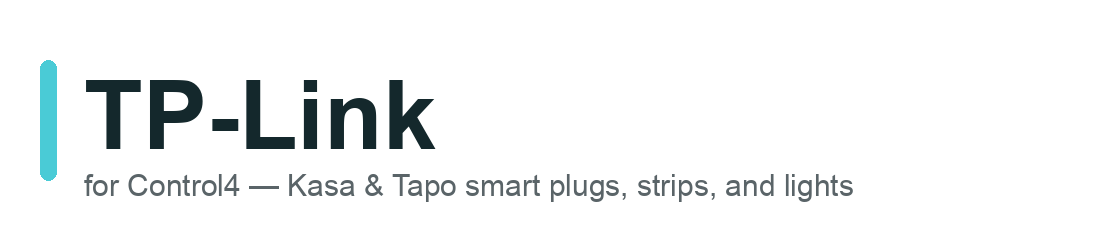
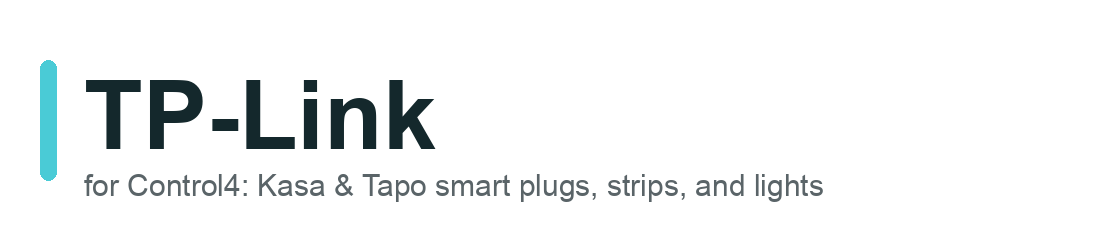
Remove em dashes and marketing tone from docs and user-facing strings

Changed region(s): [[0.2164, 0.7292, 0.7727, 0.8458]]

diff --git a/drivers/tplink_outlet/www/documentation/index.md b/drivers/tplink_outlet/www/documentation/index.md
@@ -30,16 +30,15 @@ The TP-Link Outlet driver provides local, cloud-free control of Kasa smart power
 strips (HS300/KP303/KP400) and smart plugs directly from Control4, on **both**
 generations of TP-Link's local protocol.
 
-Unlike older Kasa drivers that rely on TP-Link's legacy plaintext protocol on
-port 9999, this driver speaks **KLAP** — the encrypted local protocol TP-Link
-rolled out in firmware updates starting late 2024, which **disables the legacy
-protocol entirely**. If your Kasa device stopped responding to an existing
-Control4 driver after a firmware update, this driver is the fix: it implements
-the KLAP v2 handshake and session encryption while retaining the legacy IOT
-command schema those devices still use internally. Devices still on the original
-firmware are supported too — the driver auto-detects the protocol and falls back
-to the legacy port 9999 transport, so the same driver keeps working across
-TP-Link's forced firmware migration.
+Older Kasa drivers rely on TP-Link's plaintext protocol on port 9999. TP-Link
+firmware updates rolled out since late 2024 disable that protocol and replace it
+with KLAP, an encrypted local protocol. This driver implements the KLAP v2
+handshake and session encryption while retaining the legacy IOT command schema
+those devices still use internally, so devices that stopped responding to older
+drivers after a firmware update work again. Devices still on the original
+firmware are also supported: the driver auto-detects the protocol and falls back
+to the port 9999 transport, so the same driver instance continues to work when
+TP-Link migrates the device to KLAP.
 
 Each output is exposed as a standard Control4 **relay binding**, along with
 per-output events, variables, and real-time power (wattage) readings for
@@ -99,18 +98,18 @@ work; single-outlet devices appear as output 1.
 
 # <span style="color:#4ACBD6">Features</span>
 
-- **Local control** of each outlet — no TP-Link cloud dependency after setup
+- **Local control** of each outlet with no TP-Link cloud dependency after setup
 - **KLAP v2** encrypted transport (works on firmware that disabled port 9999)
-- **Legacy protocol support** with automatic detection — devices on original
-  Kasa firmware work with no credentials required, and keep working after
-  TP-Link migrates them to KLAP (just add your account credentials)
+- **Legacy protocol support** with automatic detection. Devices on original Kasa
+  firmware work with no credentials required and keep working after TP-Link
+  migrates them to KLAP (add your account credentials)
 - Standard Control4 **relay bindings** for every output (bind relay-controlled
   devices, use in scenes, dashboards, etc.)
 - **Events**: `Output N Turned On` / `Output N Turned Off`, `Connected`,
   `Disconnected`
-- **Variables**: `OUTPUT_N_NAME`, `OUTPUT_N_STATE`, `OUTPUT_N_WATT`, `VOLTAGE` —
-  same names as the popular legacy Kasa outlet drivers so existing programming
-  migrates 1:1
+- **Variables**: `OUTPUT_N_NAME`, `OUTPUT_N_STATE`, `OUTPUT_N_WATT`, and
+  `VOLTAGE`, using the same names as the legacy Kasa outlet drivers so existing
+  programming migrates 1:1
 - **Real-time energy monitoring** per outlet with configurable poll rate
 - **Programming commands**: Turn Output On / Turn Output Off / Toggle Output
 - Automatic session recovery (re-handshake) when the device restarts or drops
@@ -225,10 +224,10 @@ update from the GitHub repo releases.
 
 Displays the current status of the driver:
 
-- `Connected` — session established and the device is responding to polls
-- `Connecting...` — handshake in progress
-- `Disconnected: <reason>` — the device is unreachable or rejected the session
-- `Set the ... property` — required configuration is missing
+- `Connected`: session established and the device is responding to polls
+- `Connecting...`: handshake in progress
+- `Disconnected: <reason>`: the device is unreachable or rejected the session
+- `Set the ... property`: required configuration is missing
 
 ##### Driver Version (read-only)
 
@@ -264,7 +263,7 @@ The active protocol is shown in `Driver Status`, e.g. `Connected (KLAP)` or
 ##### TP-Link Username
 
 Sets the email address of the TP-Link (Kasa/Tapo) account the device is bound
-to. **Case sensitive** — enter it exactly as registered. Required for KLAP
+to. **Case sensitive**, enter it exactly as registered. Required for KLAP
 firmware; may be left blank for legacy-firmware devices.
 
 ##### TP-Link Password
@@ -274,7 +273,7 @@ KLAP firmware; may be left blank for legacy-firmware devices.
 
 > KLAP authentication is derived from the account credentials the device was
 > provisioned with in the Kasa/Tapo app. They are used only for the local
-> handshake — the driver never contacts TP-Link's cloud. Setting them on a
+> handshake; the driver never contacts TP-Link's cloud. Setting them on a
 > legacy-firmware device is harmless and recommended: when TP-Link pushes the
 > KLAP firmware update, the driver switches over automatically.
 
@@ -307,7 +306,7 @@ Line voltage reported by the energy meter, when supported.
 ##### Output 1 ... Output 6 (read-only)
 
 Displays each output's name (as configured in the Kasa app), current state, and
-last power reading, e.g. `Espresso Machine — On — 1243.0 W`. Outputs that don't
+last power reading, e.g. `Espresso Machine - On - 1243.0 W`. Outputs that don't
 exist on the connected device remain blank.
 
 ## Driver Actions
@@ -340,18 +339,18 @@ and `TRIGGER` (pulse) are supported.
 
 **Events:**
 
-- **Output N Turned On / Turned Off** — Fires when an output changes state,
+- **Output N Turned On / Turned Off**: Fires when an output changes state,
   whether from Control4, the Kasa app, or the physical button
-- **Connected / Disconnected** — Fires when the driver's connection to the
-  device is established or lost
+- **Connected / Disconnected**: Fires when the driver's connection to the device
+  is established or lost
 
 **Conditionals:**
 
-- **Device Connected** — Check whether the device is currently connected
+- **Device Connected**: Check whether the device is currently connected
 
 **Commands:**
 
-- **Turn Output On / Turn Output Off / Toggle Output** — Control an output by
+- **Turn Output On / Turn Output Off / Toggle Output**: Control an output by
   number from programming
 
 **Variables (per output N):**
@@ -388,20 +387,20 @@ To migrate:
 
 # <span style="color:#4ACBD6">Troubleshooting</span>
 
-**`Disconnected: ... handshake1 auth mismatch ...`** — The device is bound to a
+**`Disconnected: ... handshake1 auth mismatch ...`**: The device is bound to a
 different TP-Link account (or the password is wrong). Enter the credentials for
 the account that owns the device in the Kasa/Tapo app, exactly as registered
 (the email is case sensitive).
 
-**`Driver Status` stuck at `Connecting...` or timeouts** — Verify the IP
-address, that the device is on a network reachable from the controller, and that
-nothing is blocking TCP port 80 to the device.
+**`Driver Status` stuck at `Connecting...` or timeouts**: Verify the IP address,
+that the device is on a network reachable from the controller, and that nothing
+is blocking TCP port 80 to the device.
 
-**Device rejects commands with `module not support`** — The device firmware uses
+**Device rejects commands with `module not support`**: The device firmware uses
 the newer SMART command schema rather than the legacy IOT schema this driver
 speaks. File a support request with the device model and firmware version.
 
-**Output states lag behind the Kasa app** — State changes made outside Control4
+**Output states lag behind the Kasa app**: State changes made outside Control4
 are picked up on the next poll; lower
 [`Poll Rate (Seconds)`](#poll-rate-seconds--2---300-) if you need faster
 convergence.

diff --git a/README.md b/README.md
@@ -11,17 +11,16 @@ The TP-Link Outlet driver provides local, cloud-free control of Kasa
 smart power strips (HS300/KP303/KP400) and smart plugs directly from
 Control4, on **both** generations of TP-Link's local protocol.
 
-Unlike older Kasa drivers that rely on TP-Link's legacy plaintext
-protocol on port 9999, this driver speaks **KLAP** — the encrypted local
-protocol TP-Link rolled out in firmware updates starting late 2024,
-which **disables the legacy protocol entirely**. If your Kasa device
-stopped responding to an existing Control4 driver after a firmware
-update, this driver is the fix: it implements the KLAP v2 handshake and
-session encryption while retaining the legacy IOT command schema those
-devices still use internally. Devices still on the original firmware are
-supported too — the driver auto-detects the protocol and falls back to
-the legacy port 9999 transport, so the same driver keeps working across
-TP-Link's forced firmware migration.
+Older Kasa drivers rely on TP-Link's plaintext protocol on port 9999.
+TP-Link firmware updates rolled out since late 2024 disable that
+protocol and replace it with KLAP, an encrypted local protocol. This
+driver implements the KLAP v2 handshake and session encryption while
+retaining the legacy IOT command schema those devices still use
+internally, so devices that stopped responding to older drivers after a
+firmware update work again. Devices still on the original firmware are
+also supported: the driver auto-detects the protocol and falls back to
+the port 9999 transport, so the same driver instance continues to work
+when TP-Link migrates the device to KLAP.
 
 Each output is exposed as a standard Control4 **relay binding**, along
 with per-output events, variables, and real-time power (wattage)
@@ -81,20 +80,20 @@ are expected to work; single-outlet devices appear as output 1.
 
 # <span style="color:#4ACBD6">Features</span>
 
-- **Local control** of each outlet — no TP-Link cloud dependency after
-  setup
+- **Local control** of each outlet with no TP-Link cloud dependency
+  after setup
 - **KLAP v2** encrypted transport (works on firmware that disabled port
   9999)
-- **Legacy protocol support** with automatic detection — devices on
-  original Kasa firmware work with no credentials required, and keep
-  working after TP-Link migrates them to KLAP (just add your account
+- **Legacy protocol support** with automatic detection. Devices on
+  original Kasa firmware work with no credentials required and keep
+  working after TP-Link migrates them to KLAP (add your account
   credentials)
 - Standard Control4 **relay bindings** for every output (bind
   relay-controlled devices, use in scenes, dashboards, etc.)
 - **Events**: `Output N Turned On` / `Output N Turned Off`, `Connected`,
   `Disconnected`
-- **Variables**: `OUTPUT_N_NAME`, `OUTPUT_N_STATE`, `OUTPUT_N_WATT`,
-  `VOLTAGE` — same names as the popular legacy Kasa outlet drivers so
+- **Variables**: `OUTPUT_N_NAME`, `OUTPUT_N_STATE`, `OUTPUT_N_WATT`, and
+  `VOLTAGE`, using the same names as the legacy Kasa outlet drivers so
   existing programming migrates 1:1
 - **Real-time energy monitoring** per outlet with configurable poll rate
 - **Programming commands**: Turn Output On / Turn Output Off / Toggle
@@ -151,12 +150,11 @@ automatic update from the GitHub repo releases.
 
 Displays the current status of the driver:
 
-- `Connected` — session established and the device is responding to
-  polls
-- `Connecting...` — handshake in progress
-- `Disconnected: <reason>` — the device is unreachable or rejected the
+- `Connected`: session established and the device is responding to polls
+- `Connecting...`: handshake in progress
+- `Disconnected: <reason>`: the device is unreachable or rejected the
   session
-- `Set the ... property` — required configuration is missing
+- `Set the ... property`: required configuration is missing
 
 ##### Driver Version (read-only)
 
@@ -192,7 +190,7 @@ or `Connected (Legacy)`.
 ##### TP-Link Username
 
 Sets the email address of the TP-Link (Kasa/Tapo) account the device is
-bound to. **Case sensitive** — enter it exactly as registered. Required
+bound to. **Case sensitive**, enter it exactly as registered. Required
 for KLAP firmware; may be left blank for legacy-firmware devices.
 
 ##### TP-Link Password
@@ -203,7 +201,7 @@ devices.
 
 > KLAP authentication is derived from the account credentials the device
 > was provisioned with in the Kasa/Tapo app. They are used only for the
-> local handshake — the driver never contacts TP-Link's cloud. Setting
+> local handshake; the driver never contacts TP-Link's cloud. Setting
 > them on a legacy-firmware device is harmless and recommended: when
 > TP-Link pushes the KLAP firmware update, the driver switches over
 > automatically.
@@ -238,7 +236,7 @@ Line voltage reported by the energy meter, when supported.
 ##### Output 1 ... Output 6 (read-only)
 
 Displays each output's name (as configured in the Kasa app), current
-state, and last power reading, e.g. `Espresso Machine — On — 1243.0 W`.
+state, and last power reading, e.g. `Espresso Machine - On - 1243.0 W`.
 Outputs that don't exist on the connected device remain blank.
 
 ## Driver Actions
@@ -268,18 +266,18 @@ supported.
 
 **Events:**
 
-- **Output N Turned On / Turned Off** — Fires when an output changes
+- **Output N Turned On / Turned Off**: Fires when an output changes
   state, whether from Control4, the Kasa app, or the physical button
-- **Connected / Disconnected** — Fires when the driver's connection to
+- **Connected / Disconnected**: Fires when the driver's connection to
   the device is established or lost
 
 **Conditionals:**
 
-- **Device Connected** — Check whether the device is currently connected
+- **Device Connected**: Check whether the device is currently connected
 
 **Commands:**
 
-- **Turn Output On / Turn Output Off / Toggle Output** — Control an
+- **Turn Output On / Turn Output Off / Toggle Output**: Control an
   output by number from programming
 
 **Variables (per output N):**
@@ -318,21 +316,21 @@ To migrate:
 
 # <span style="color:#4ACBD6">Troubleshooting</span>
 
-**`Disconnected: ... handshake1 auth mismatch ...`** — The device is
+**`Disconnected: ... handshake1 auth mismatch ...`**: The device is
 bound to a different TP-Link account (or the password is wrong). Enter
 the credentials for the account that owns the device in the Kasa/Tapo
 app, exactly as registered (the email is case sensitive).
 
-**`Driver Status` stuck at `Connecting...` or timeouts** — Verify the IP
+**`Driver Status` stuck at `Connecting...` or timeouts**: Verify the IP
 address, that the device is on a network reachable from the controller,
 and that nothing is blocking TCP port 80 to the device.
 
-**Device rejects commands with `module not support`** — The device
+**Device rejects commands with `module not support`**: The device
 firmware uses the newer SMART command schema rather than the legacy IOT
 schema this driver speaks. File a support request with the device model
 and firmware version.
 
-**Output states lag behind the Kasa app** — State changes made outside
+**Output states lag behind the Kasa app**: State changes made outside
 Control4 are picked up on the next poll; lower
 [`Poll Rate (Seconds)`](#poll-rate-seconds--2---300-) if you need faster
 convergence.